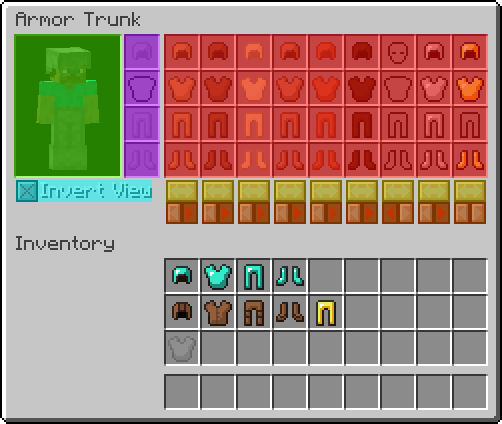
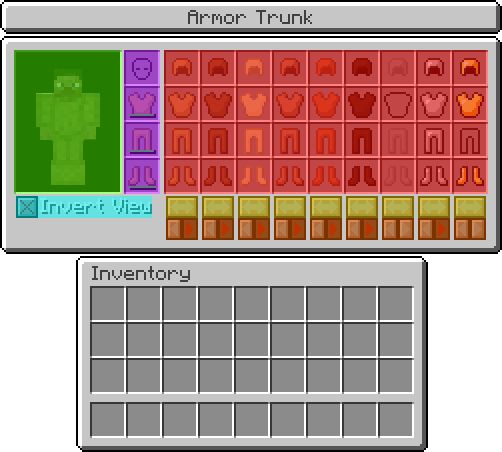
Closes #11

diff --git a/resources/additional_information.html b/resources/additional_information.html
@@ -26,9 +26,9 @@
 
 <img src='./screenshots/recipes_barrel.gif' />
 
-<p>The barrel interface is simple, consisting of a liquid tank (<span style='color:#0026FF'>BLUE</span>), a liquid container input slot (<span style='color:#FF0000'>RED</span>), and a liquid container output slot (<span style='color:#FF6A00'>ORANGE</span>).</p>
+<p>The barrel interface is simple, consisting of a fluid tank (<span style='color:#0026FF'>BLUE</span>), a fluid container input slot (<span style='color:#FF0000'>RED</span>), and a fluid container output slot (<span style='color:#FF6A00'>ORANGE</span>).</p>
 
-<p>Two pieces of information are displayed on the barrel interface: the maximum capacity (<span style='color:#4CFF00'>GREEN</span>) and the current amount of liquid in the tank (<span style='color:#FFD800'>YELLOW</span>). The last piece of text (<span style='color:#00FFFF'>CYAN</span>) is simply the number '0' and represents the "minimum" amount of liquid, ie no liquid.</p>
+<p>Three pieces of information are displayed on the barrel interface: the maximum capacity (<span style='color:#4CFF00'>GREEN</span>), the current amount of fluid in the tank (<span style='color:#FFD800'>YELLOW</span>), and the percentage of tank space used (<span style='color:#00FFFF'>CYAN</span>).</p>
 
 <img src='./screenshots/gui_barrel.png' />
 
@@ -44,9 +44,9 @@
 <small><span style='color:#00137F'>^</span> - Forge ore dictionary barrels.</small>
 </p>
 
-<img src='./screenshots/recipes_barrel.gif' />
+<img src='./screenshots/recipes_crate.gif' />
 
-<p>The crate interface is extremely simple and operates the same as a normal chest with normal storage slots (<span style='color:#FF0000'>RED</span>).</p>
+<p>The crate interface is extremely simple and operates the same as a normal chest with normal storage slots (<span style='color:#FF0000'>RED</span>). If the Inventory Tweaks mod is installed, then sorting buttons will be displayed (<span style='color:#4CFF00'>GREEN</span>).</p>
 
 <img src='./screenshots/gui_crate.png' />
 

diff --git a/resources/change_log.html b/resources/change_log.html
@@ -4,6 +4,8 @@
 <ul>
 <li>Mod: Updated to Forge 10.13.2.1291.</li>
 <li>Mod: Updated to JeckelCoreLibrary 0.6.0-beta.</li>
+<li>Graphics: Updated screens to fit current pattern.</li>
+<li>Docs: Crate recipes were showing barrel recipes. That is now fixed.</li>
 </ul>
 
 <header><h3>Version: 1.3.3-beta</h3></header>
